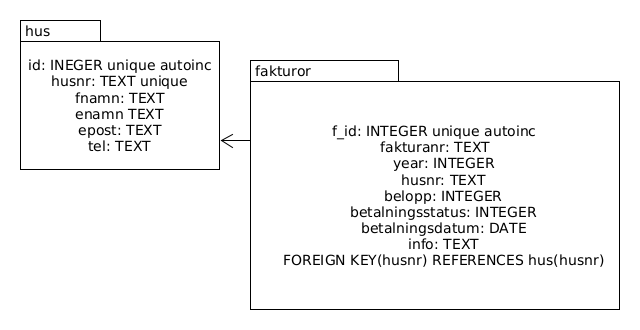
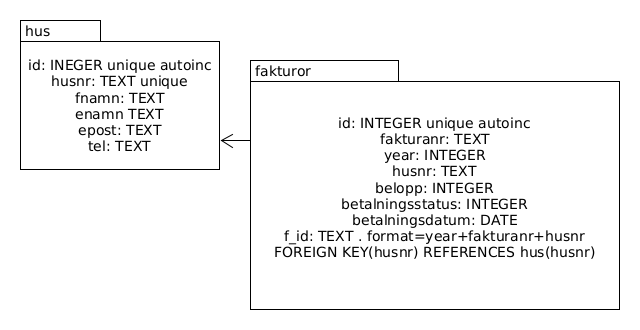
fixa delete poster från tabeller

Changed region(s): [[0.4375, 0.3333, 0.9375, 0.8182]]

diff --git a/dbhandler.py b/dbhandler.py
@@ -24,7 +24,7 @@ class DbHandler:
         self.create_table_fakturor()
         
 
-
+#------------------------------------------------------------------------------------------------------------
     def add_hus(self, t_hus: hus.Hus):
       
         sqliteConnection = sqlite3.connect(self.db_name)
@@ -48,9 +48,9 @@ class DbHandler:
         sqliteConnection = sqlite3.connect(self.db_name)
         cursor = sqliteConnection.cursor()
         sqlite_insert_query = f"""INSERT INTO fakturor
-                          (fakturanr, year, husnr, belopp, betalningsstatus, betalningsdatum, info)  
+                          (fakturanr, year, husnr, belopp, betalningsstatus, betalningsdatum, f_id)  
                           VALUES  
-                          ('{t_faktura.fakturanr}', {t_faktura.year},'{t_faktura.husnr}', {t_faktura.belopp}, {t_faktura.betalningsstatus}, '{t_faktura.betalningsdatum}', '{t_faktura.info}') """
+                          ('{t_faktura.fakturanr}', {t_faktura.year},'{t_faktura.husnr}', {t_faktura.belopp}, {t_faktura.betalningsstatus}, '{t_faktura.betalningsdatum}', '{t_faktura.f_id}') """
         
 
         #print(sqlite_insert_query)
@@ -137,6 +137,38 @@ class DbHandler:
                 print("The SQLite connection is closed")
 
         return lista_hus
+    
+    def read_table_faktura(self):
+
+        lista_faktura = []
+
+        try:
+            sqliteConnection = sqlite3.connect(self.db_name)
+            cursor = sqliteConnection.cursor()
+            #print("Connected to SQLite")
+
+            sqlite_select_query = """SELECT * from fakturor ORDER BY husnr"""
+            cursor.execute(sqlite_select_query)
+            records = cursor.fetchall()
+            print("Antal rader:  ", len(records), "\n")
+            #print("Printing each row")
+            
+          
+
+            for row in records:
+                t_faktura = faktura.Faktura(row[1], row[2], row[3], row[4], row[5], row[6], row[7], row[0])
+                lista_faktura.append(t_faktura)
+                
+                cursor.close()
+
+        except sqlite3.Error as error:
+            print("Failed to read data from sqlite table", error)
+        finally:
+            if sqliteConnection:
+                sqliteConnection.close()
+                print("The SQLite connection is closed")
+
+        return lista_faktura
 
 #----------------------------------------------------------------------------------------------------    
     #Skapar tabellen hus i databasen, körs bara första gången
@@ -173,14 +205,14 @@ class DbHandler:
         try:
             sqliteConnection = sqlite3.connect(self.db_name)
             sqlite_create_table_query = '''CREATE TABLE IF NOT EXISTS fakturor (
-                                f_id INTEGER PRIMARY KEY,
+                                id INTEGER PRIMARY KEY,
                                 fakturanr TEXT,
                                 year INTEGER,
                                 husnr TEXT,
                                 belopp INTEGER,
                                 betalningsstatus INTEGER,
                                 betalningsdatum TEXT,
-                                info TEXT);'''
+                                f_id TEXT);'''
 
             cursor = sqliteConnection.cursor()
             print("Successfully Connected to SQLite")

diff --git a/meny.py b/meny.py
@@ -50,8 +50,8 @@ def createFaktura():
     belopp = int(input("\n\tMata in belopp: "))
     betalningsstatus = int(input("\n\tMata in betalningsstaus 1-0: "))
     betalningsdatum = input("\n\tMata in betalningsdatum: ")
-    info = input("\n\tMata in info: ")
-    return   faktura.Faktura(fakturanr, year, husnr, belopp, betalningsstatus, betalningsdatum, info)
+    f_id = input("\n\tMata in faktura id (year+fakturaNr+husNr): ")
+    return   faktura.Faktura(fakturanr, year, husnr, belopp, betalningsstatus, betalningsdatum, f_id)
 
 #-----------------------------------------------------------------------------------------------------
 
@@ -67,13 +67,14 @@ def print_list_hus(lista_hus):
     print(t_table)
     input("Fortsätta? tryck Enter: ")
 
+
 #List all fakturor
 def print_list_fakura(lista_fakturor):
     os.system('cls' if os.name == 'nt' else 'clear')
-    t_table_fakturor = PrettyTable(['FakturaNr', 'År', 'HusNr', 'Belopp', 'Betalningsstatus', 'Betalningsdatum', 'Information', 'Id'])
+    t_table_fakturor = PrettyTable(['FakturaNr', 'År', 'HusNr', 'Belopp', 'Betalningsstatus', 'Betalningsdatum', 'Faktura id', 'Id'])
 
     for faktura in lista_fakturor:
-        t_table.add_row([ faktura.fakturanr, faktura.year, faktura.husnr, faktura.belopp, faktura.betalningsstatus, faktura.betalningsdatum, faktura.info, faktura.f_id])
+        t_table_fakturor.add_row([ faktura.fakturanr, faktura.year, faktura.husnr, faktura.belopp, faktura.betalningsstatus, faktura.betalningsdatum, faktura.f_id, faktura.id])
     
     print(t_table_fakturor)
     input("Fortsätta? tryck Enter: ")

diff --git a/faktura.py b/faktura.py
@@ -1,7 +1,7 @@
 
 class Faktura:
 
-    def __init__(self, fakturanr:str=None, year:int=None, husnr:str=None, belopp:str=None, betalningsstatus:int=None, betalningsdatum:str=None, info:str=None, f_id=None, ):
+    def __init__(self, fakturanr:str=None, year:int=None, husnr:str=None, belopp:str=None, betalningsstatus:int=None, betalningsdatum:str=None, f_id=None, id=None ):
         
         self.fakturanr = fakturanr
         self.year = year
@@ -9,8 +9,8 @@ class Faktura:
         self.belopp = belopp
         self.betalningsstatus = betalningsstatus
         self.betalningsdatum = betalningsdatum
-        self.info = info
         self.f_id = f_id
+        self.id = id
 
    
 
@@ -35,5 +35,5 @@ class Faktura:
     def set_betalningsdatum(self, betalningsdatum:str):
         self.betalningsdatum = betalningsdatum
 
-    def set_info(self, info:str):
-        self.info = info
+    def set_F_id(self, f_id:str):
+        self.f_id = f_id

diff --git a/start.py b/start.py
@@ -28,7 +28,7 @@ def main():
             #print("Val 1")
             #input("\tFortsätta? tryck Enter: ")
             lista_hus = db_handler.read_table_hus()
-            mc = meny.print_list_hus(lista_hus)
+            thus = meny.print_list_hus(lista_hus)
             
                         
         elif val == "2":#lägg till hus
@@ -48,8 +48,9 @@ def main():
             input("\tFortsätta? tryck Enter: ")
             
         elif val == "5":#lista fakturor
-            print("Val 5 lista fakturor")
-            input("\tFortsätta? tryck Enter: ")
+           
+            lista_fakturer = db_handler.read_table_faktura()
+            tftur = meny.print_list_fakura(lista_fakturer)
         
         elif val == "6":#lägg till fatura
             nyfaktura = meny.createFaktura()
